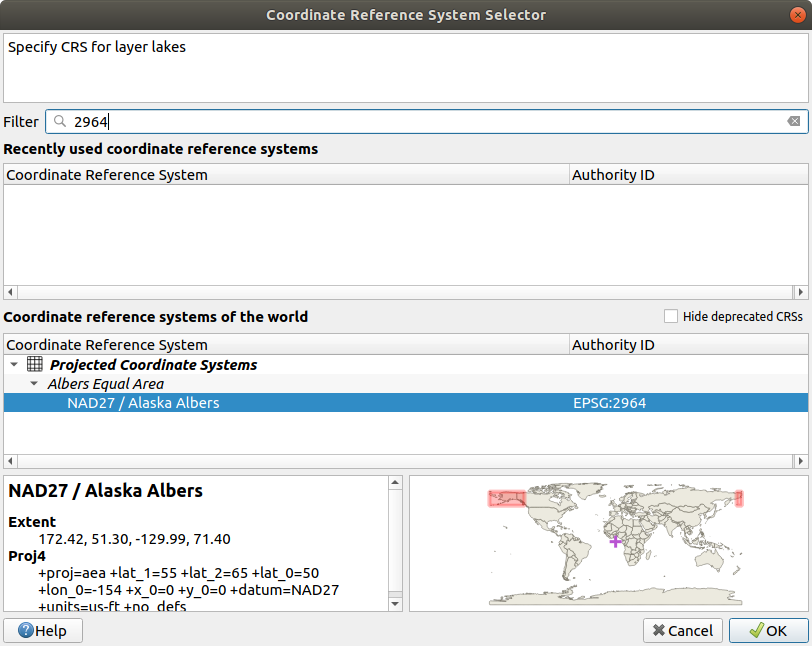
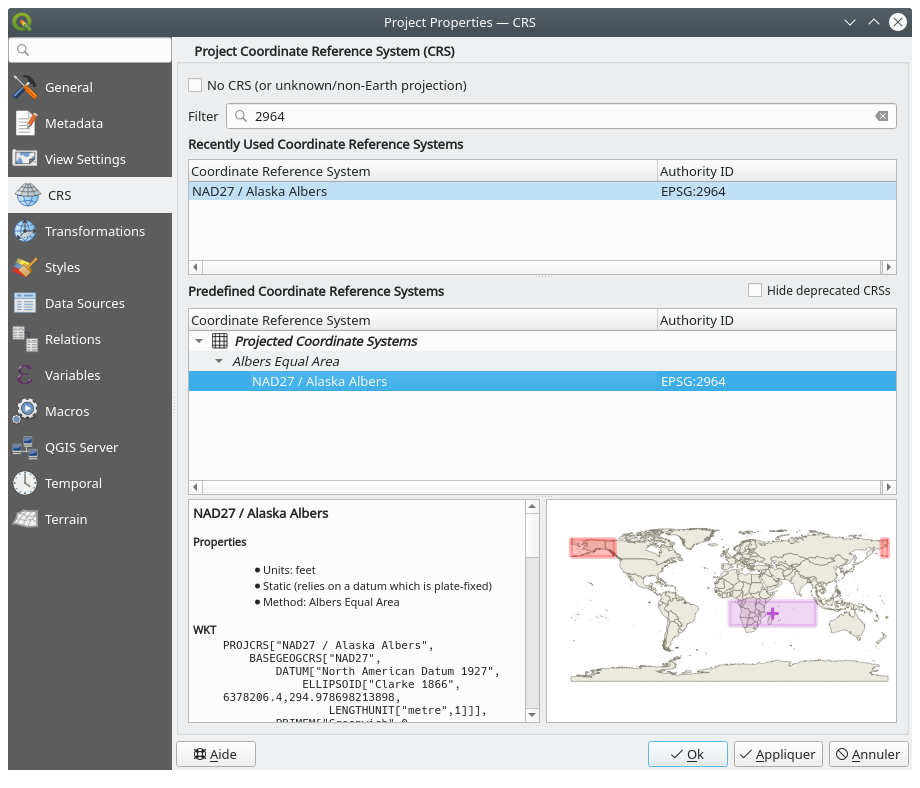
Update Getting Started steps and mention the ballpark transform message

diff --git a/docs/user_manual/introduction/getting_started.rst b/docs/user_manual/introduction/getting_started.rst
@@ -142,12 +142,34 @@ We will use:
 Where :file:`qgis_sample_data` represents the path to the unzipped dataset.
 
 #. Start QGIS as seen in :ref:`label_startingqgis`.
-#. To load the files in QGIS:
+#. The data we will be working with are in ``Albers Equal Area``,
+   so let's set the project's CRS accordingly:
+
+   #. Click the |setProjection| :sup:`Select projection` button
+      in the bottom right of QGIS interface.
+      The project properties dialog opens with the :guilabel:`CRS` tab active.
+   #. Type `̀`2964`` in the |search| :guilabel:`Filter` text area.
+   #. Select the row with ``NAD27 / Alaska Albers`` CRS name.
+
+      .. _figure_selectCRS:
+
+      .. figure:: img/selectCRS.png
+         :align: center
+
+         Select the Coordinate Reference System of data
+
+   #. Press :guilabel:`OK`
+
+   .. note:: You can ignore/close for now the "ballpark transform" message
+    that could display.
+
+#. Load the files in QGIS:
 
    #. Click on the |dataSourceManager| :sup:`Open Data Source Manager` icon.
       The Data Source Manager should open in Browser mode.
    #. Browse to the folder :file:`qgis_sample_data/raster/`
-   #. Select the ERDAS IMG file |rasterLayer| :guilabel:`landcover.img` and double-click it.
+   #. Select the ERDAS IMG file |rasterLayer| :guilabel:`landcover.img`
+      and double-click it.
       The landcover layer is added in the background while the Data Source
       Manager window remains open.
 
@@ -173,23 +195,17 @@ Where :file:`qgis_sample_data` represents the path to the unzipped dataset.
 
    #. In our case there is a single |polygonLayer| :guilabel:`lakes` layer.
       Select it and press :guilabel:`Add Layers`.
-   #. The layer is added to the :guilabel:`Layers` panel but it displays
-      |indicatorNoCRS| :sup:`Layer has no coordinate reference system set` next to it.
-      Let's adjust that by clicking the icon.
-   #. A :guilabel:`Coordinate Reference System Selector` dialog opens.
-      In the :guilabel:`Filter` menu, type ``2964``,
-      filtering the list of Coordinate Reference Systems below.
+   #. The layer is added to the :guilabel:`Layers` panel
+#. Close the Data Source Manager window
 
-      .. _figure_selectCRS:
+In the :guilabel:`Layers` panel, you can notice that the :guilabel:`lakes` layer
+displays |indicatorNoCRS| :sup:`Layer has no coordinate reference system set` next to it.
+Let's adjust that.
 
-      .. figure:: img/selectCRS.png
-         :align: center
-
-         Select the Coordinate Reference System of data
-
-   #. Select the :guilabel:`NAD27 / Alaska Albers` entry
-   #. Click :guilabel:`OK`
-   #. Close the Data Source Manager window
+#. Click the |indicatorNoCRS| icon.
+   The :guilabel:`Coordinate Reference System Selector` dialog opens.
+#. As done earlier, find and select the :guilabel:`NAD27 / Alaska Albers` CRS entry.
+#. Click :guilabel:`OK`
 
 You now have the two layers available in your project in some random colours.
 Let's do some customization on the lakes layer.
@@ -290,6 +306,10 @@ features and settings, and how to use them.
 .. |rasterLayer| image:: /static/common/mIconRasterLayer.png
    :width: 1.5em
 .. |saveMapAsImage| image:: /static/common/mActionSaveMapAsImage.png
+   :width: 1.5em
+.. |search| image:: /static/common/search.png
+   :width: 1.5em
+.. |setProjection| image:: /static/common/mActionSetProjection.png
    :width: 1.5em
 .. |symbology| image:: /static/common/symbology.png
    :width: 2em
